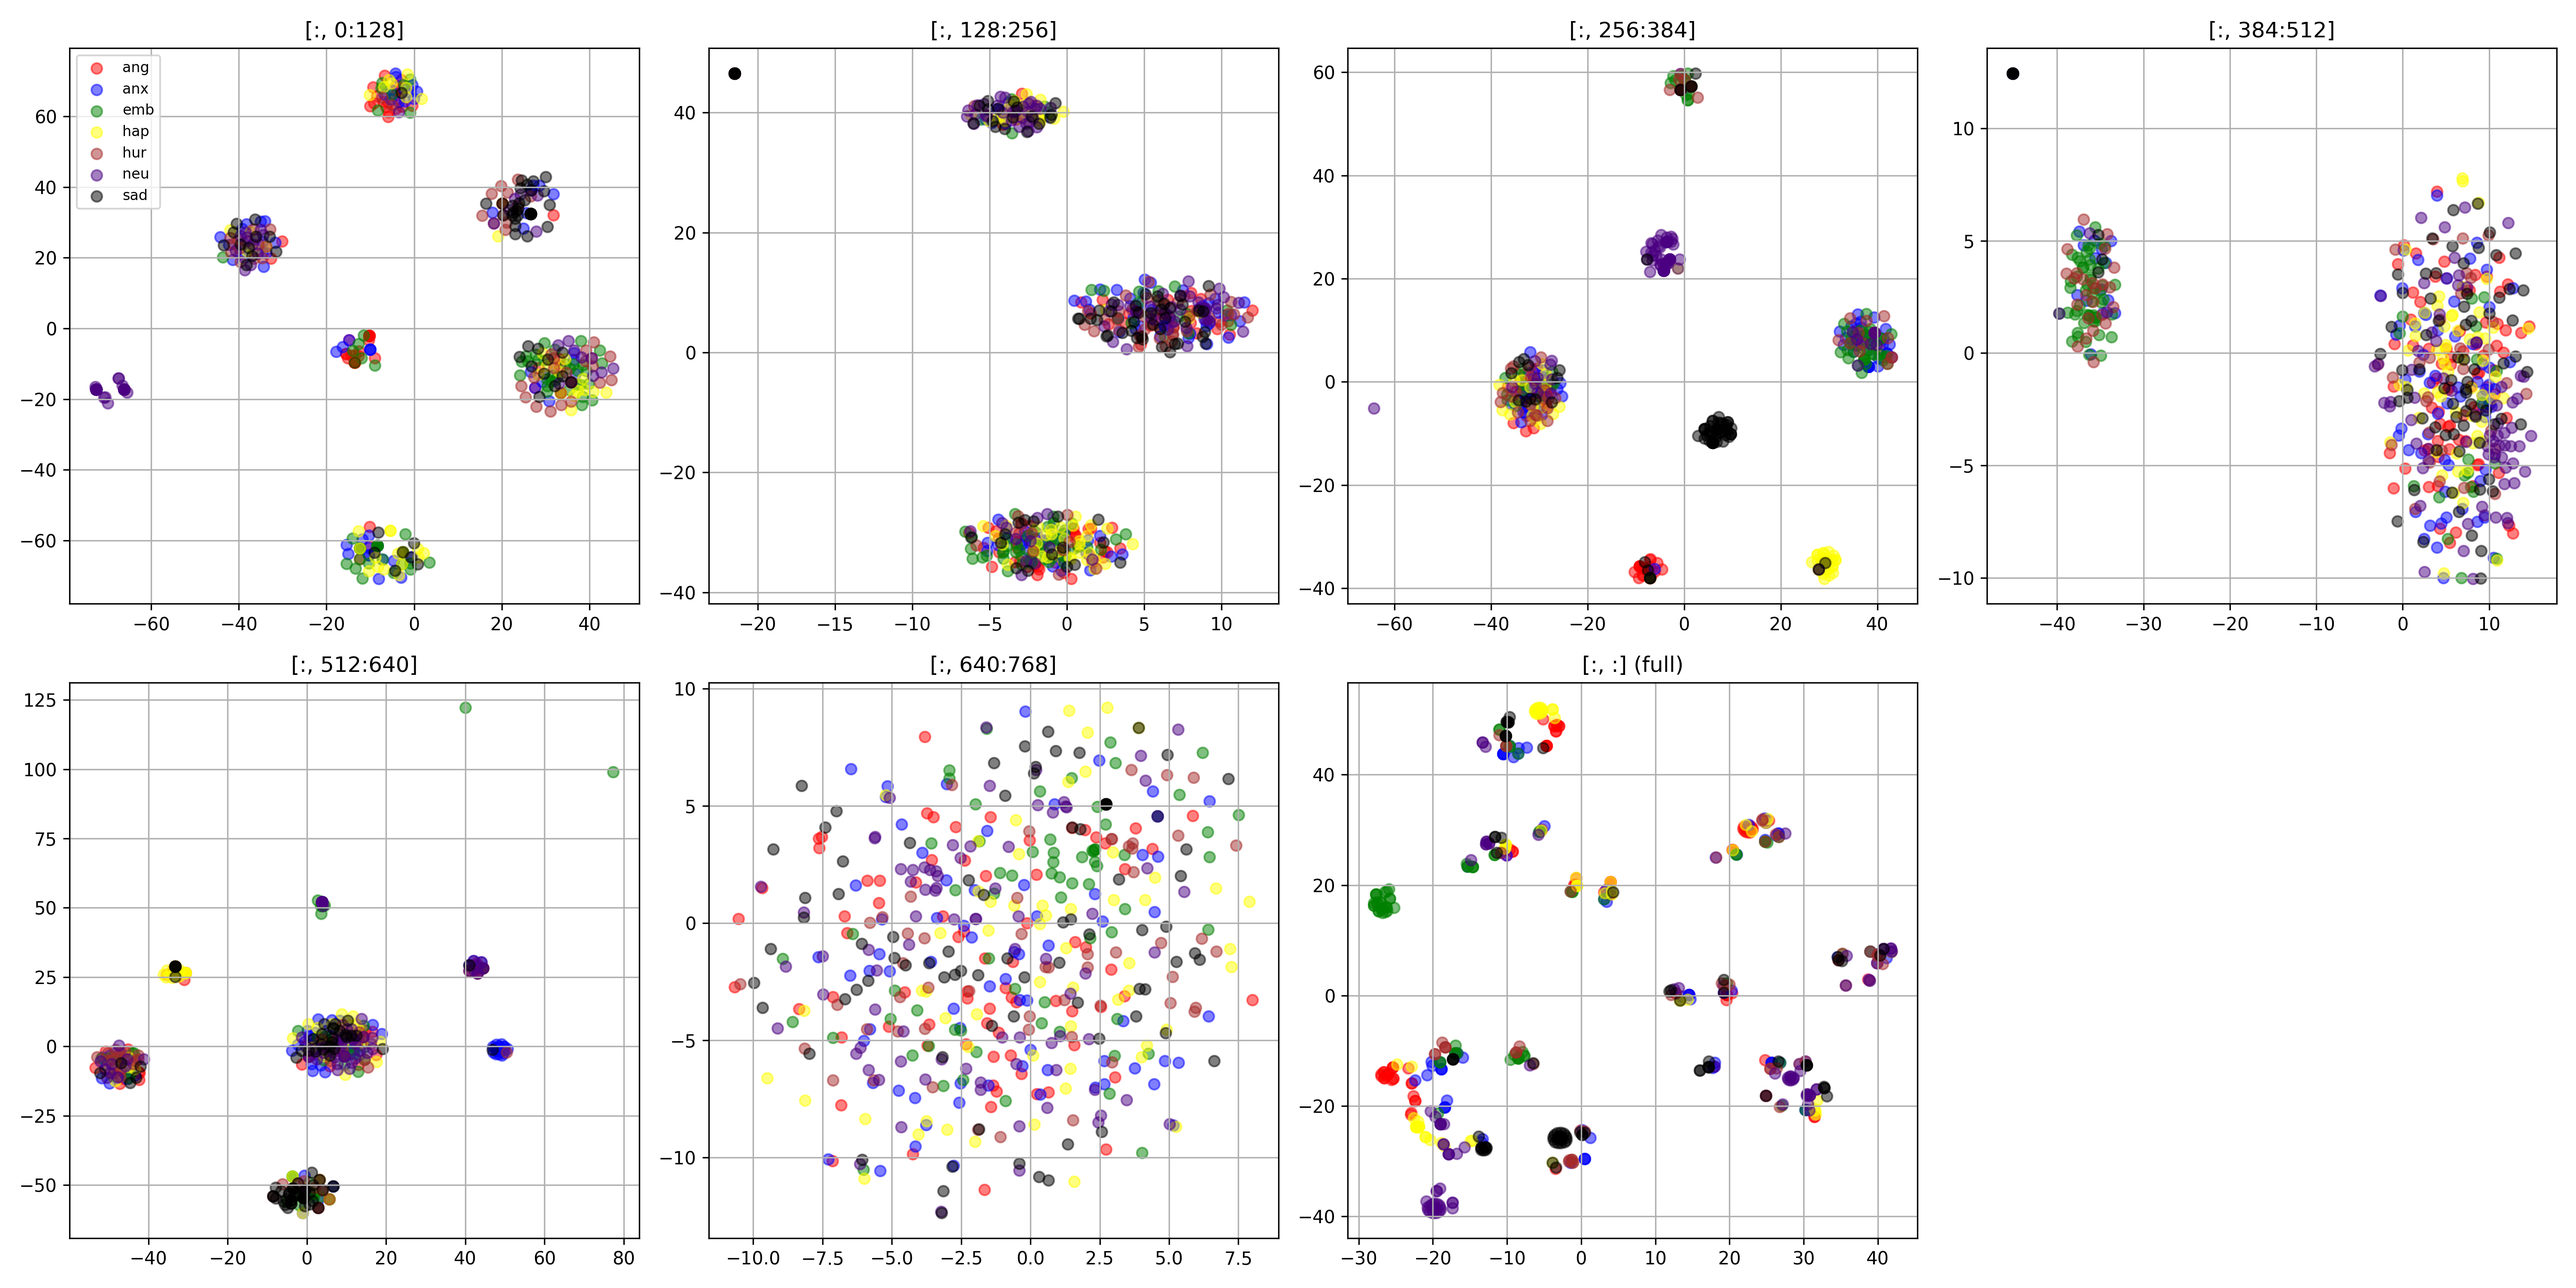
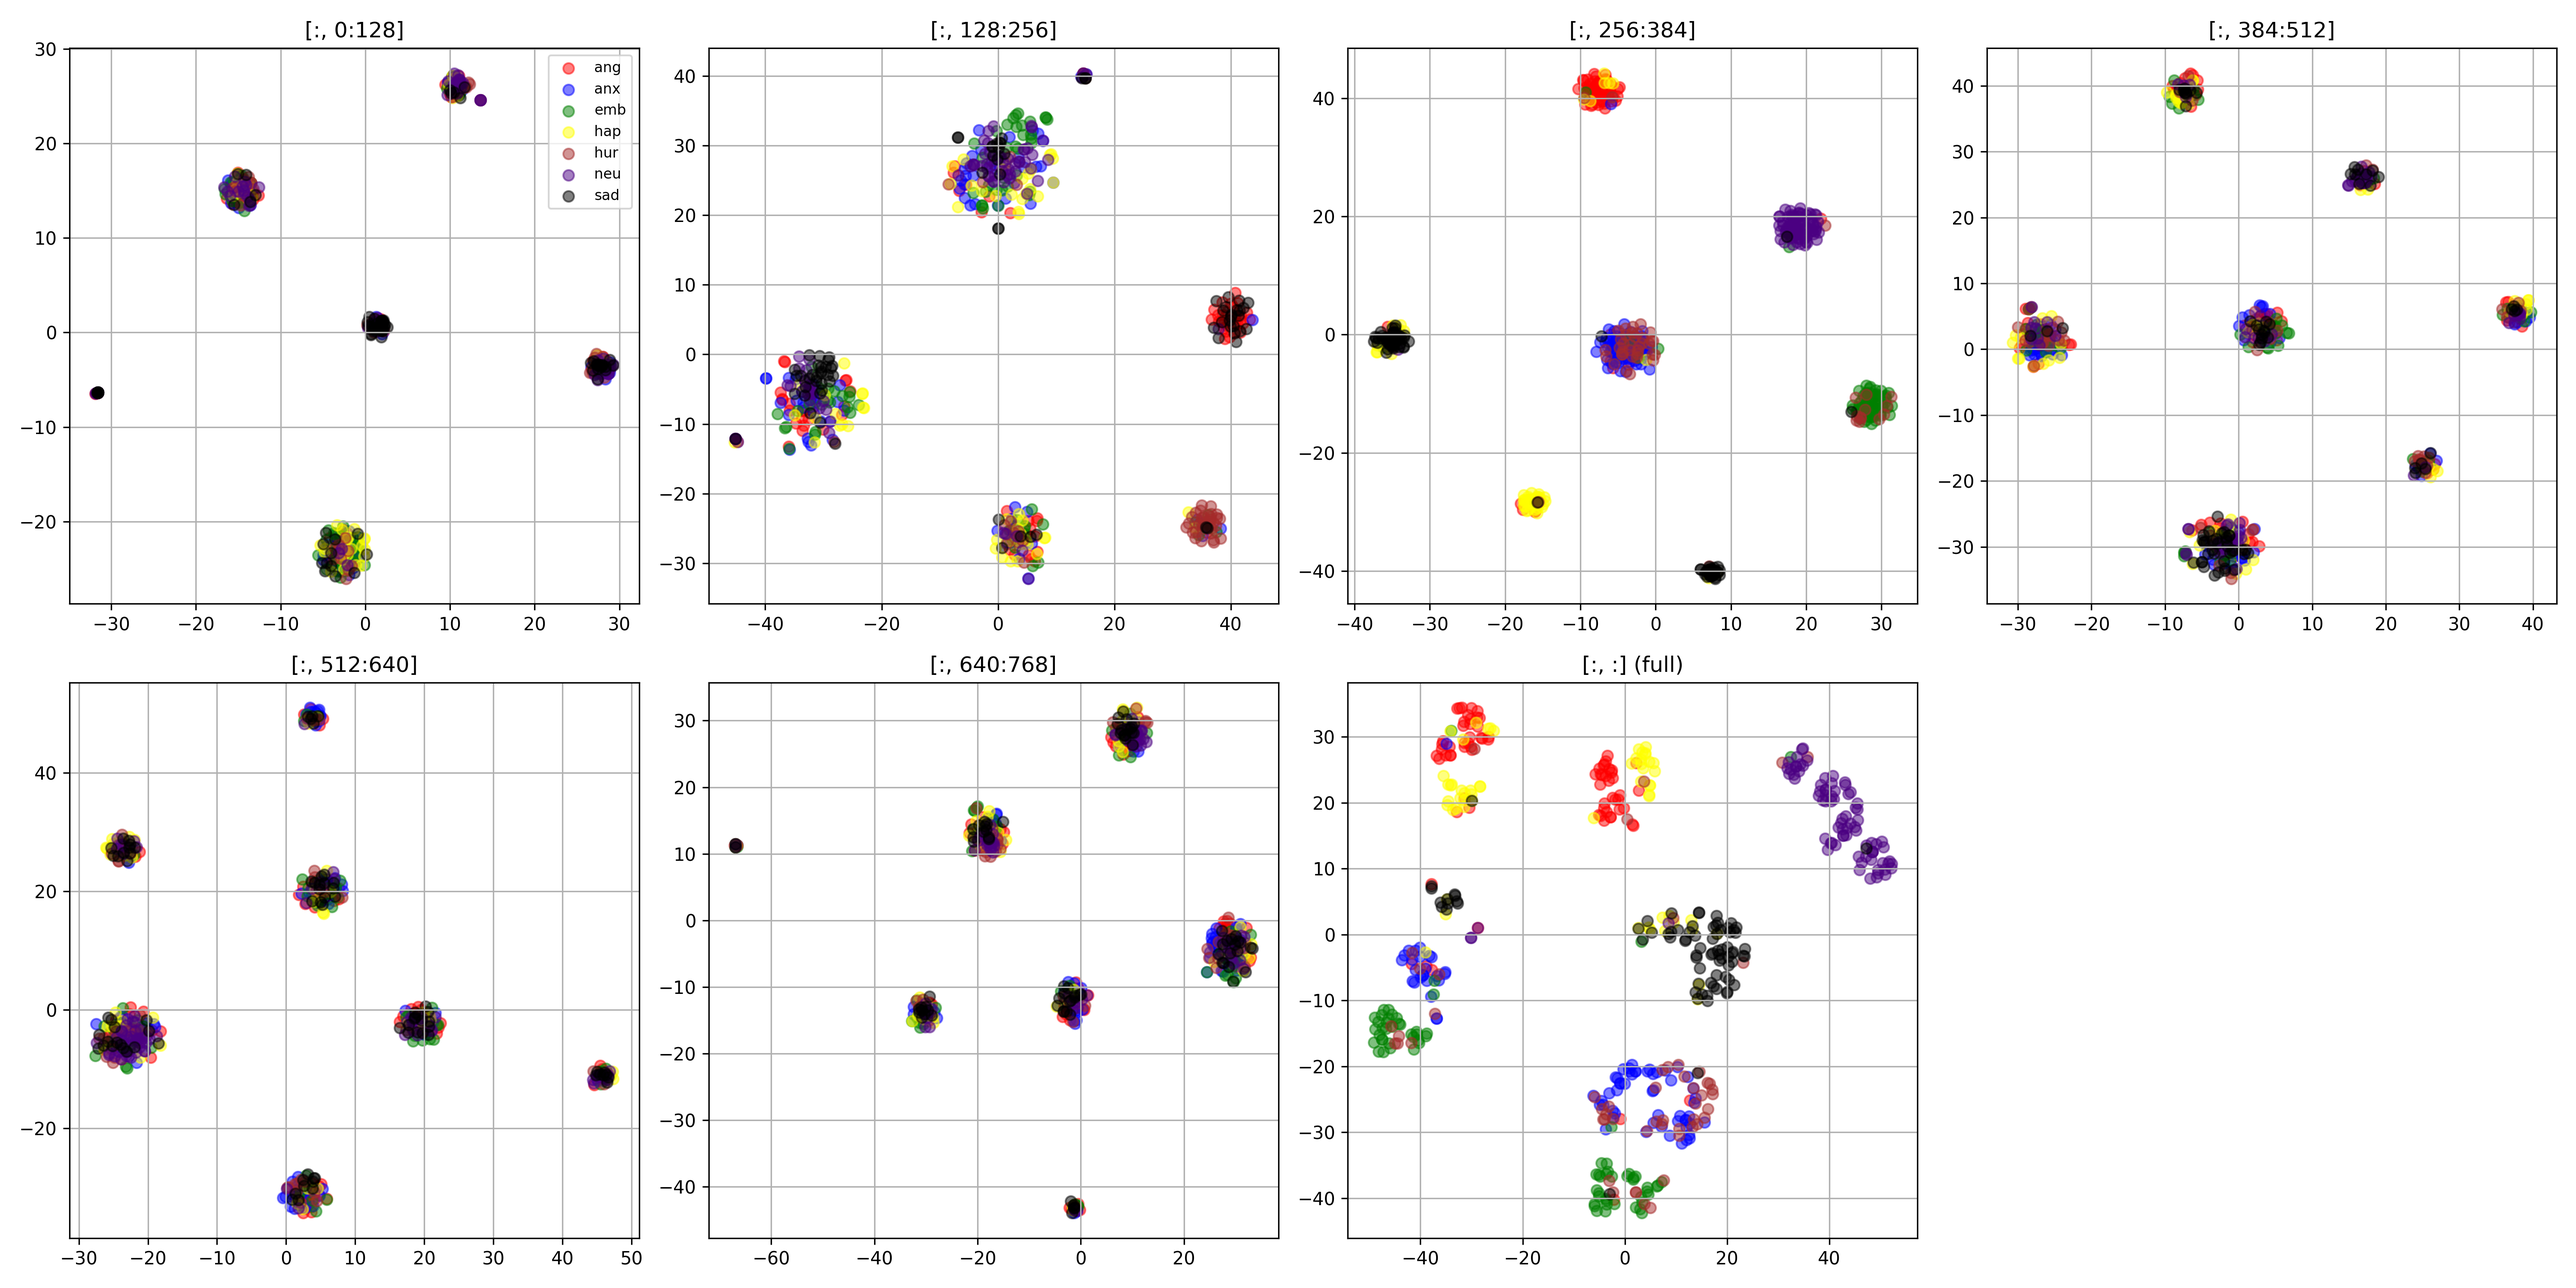
use all indices for group consistency loss

diff --git a/model/loss.py b/model/loss.py
@@ -2,6 +2,50 @@ import torch
 import torch.nn as nn
 import torch.nn.functional as F
 
+import numpy as np
+
+def group_consistency_loss(y_true, y_pred):
+    """
+    y_true: 정답 레이블 시퀀스 (길이 N) - Tensor 또는 numpy array
+    y_pred: 예측 레이블 시퀀스 (길이 N) - Tensor 또는 numpy array
+    
+    return: float (각 라벨 그룹별 일관성 로스의 합)
+    """
+    # 혹시 y_true, y_pred가 torch.Tensor로 GPU에 올라가 있다면
+    # detach + cpu로 옮겨서 numpy로 변환해준다.
+    if isinstance(y_true, torch.Tensor):
+        y_true = y_true.detach().cpu().numpy()
+    if isinstance(y_pred, torch.Tensor):
+        y_pred = y_pred.detach().cpu().numpy()
+    
+    assert len(y_true) == len(y_pred), "두 시퀀스 길이가 다릅니다."
+    N = len(y_true)
+    if N == 0:
+        return 0.0
+
+    total_loss = 0.0
+    
+    # 타겟에 존재하는 유니크 라벨들을 찾는다.
+    unique_labels = np.unique(y_true)
+    
+    # 라벨별로 해당하는 인덱스를 모은 뒤, 그 인덱스의 예측들이 얼마나 "한 가지 라벨"로 일관적인지 계산
+    for label in unique_labels:
+        # 해당 라벨을 가지는 위치
+        indices = np.where(y_true == label)[0]
+        # 그 위치들의 예측값 모음
+        seg_pred = y_pred[indices]
+        
+        # seg_pred 내에서 가장 많이 나온 라벨의 빈도수
+        counts = np.bincount(seg_pred)
+        max_count = np.max(counts)  # 가장 빈도가 높은 예측 라벨의 횟수
+        q_k = max_count / len(seg_pred)  # 해당 라벨 그룹 내에서 "최다 라벨"이 차지하는 비율
+        
+        # 일관성이 높을수록 q_k는 1에 가까워지고, loss는 0에 가까워짐
+        loss_k = 1.0 - q_k
+        total_loss += loss_k
+    
+    return total_loss
+
 
 class FastSpeech2Loss(nn.Module):
     """ FastSpeech2 Loss """
@@ -94,17 +138,19 @@ class FastSpeech2Loss(nn.Module):
         for min_encoding_indice in min_encoding_indices:
             emotions_pred = min_encoding_indice
             # Clssifier
-            emotions_pred = F.one_hot(emotions_pred, num_classes=7).float().squeeze()
+            # emotions_pred = F.one_hot(emotions_pred, num_classes=7).float().squeeze()
 
             # emotions_pred = min_encoding_indices.float().squeeze()
-            emotions = inputs[3].long()
+            emotions = inputs[3]
+
+            
 
             # print("emotions", emotions)
 
             # print("emotions_pred ", emotions_pred)
             # print("emotions ", emotions)
 
-            classifier_loss += self.criterion(emotions_pred, emotions) * 0.1
+            classifier_loss += group_consistency_loss(emotions_pred, emotions) * 0.1
 
             # print("-----------------------")
 

diff --git a/model/residual_vq_gaeun.py b/model/residual_vq_gaeun.py
@@ -730,7 +730,7 @@ class ResidualVQ2_kmeans(torch.nn.Module):
         # 모든 단계의 quantized 코드를 concatenate
         final_quantized = torch.cat(quantized_codes, dim=1)
 
-        return final_quantized, total_vq_loss, indices_list[0], perplexities
+        return final_quantized, total_vq_loss, indices_list, perplexities
 
 class ReferenceEncoderSRVQ3(torch.nn.Module):
     def __init__(self, e_dim
@@ -744,6 +744,7 @@ class ReferenceEncoderSRVQ3(torch.nn.Module):
         print("reference_encoder m,p,e initialized")
 
         self.emotion_classifier = EmotionClassifier(e_dim//2, 7)
+        self.cls_loss = 0
 
     def forward(self, speech, emotions, p_mel, e_mel):
         # Step 1: Extract pitch information and neutralize it
@@ -765,9 +766,9 @@ class ReferenceEncoderSRVQ3(torch.nn.Module):
         emotion_preds_e = self.emotion_classifier(z_energy)
         cls_loss_e = torch.nn.functional.cross_entropy(emotion_preds_e, emotions)
 
-        cls_loss = (cls_loss_m + cls_loss_p + cls_loss_e) / 3
+        self.cls_loss = (cls_loss_m + cls_loss_p + cls_loss_e) / 2
 
-        return z_mel, z_pitch, z_energy, cls_loss
+        return z_mel, z_pitch, z_energy, self.cls_loss
 
 class SRVQ3WithNeutralization(torch.nn.Module):
     def __init__(
@@ -809,7 +810,7 @@ class SRVQ3WithNeutralization(torch.nn.Module):
         commit_loss = commit_loss_m + commit_loss_p + commit_loss_e
 
         # Combine indices for reference
-        indices = [indices_m, indices_p, indices_e]
+        indices = [indices_m[0], indices_m[1], indices_p[0], indices_p[1], indices_e[0], indices_e[1]]
 
         # print("commit_loss", commit_loss, "cls_loss", cls_loss)
 

diff --git a/train.py b/train.py
@@ -237,7 +237,7 @@ def train(rank, args, configs, batch_size, num_gpus):
                 inner_bar.update(1)
         epoch += 1
 
-        val_path =  '/root/mydir/ICASSP2024_FS2-develop/ICASSP2024_FS2-develop/preprocessed_data/emo_kr_22050/val.txt'
+        val_path =  '/root/mydir/ICASSP2024_FS2-develop/ICASSP2024_FS2-develop/preprocessed_data/emo_kr_22050/train.txt'
 
         with open(val_path, encoding='utf-8') as f:
             val_infos = [line.strip().split("|") for line in f]
@@ -253,7 +253,9 @@ def train(rank, args, configs, batch_size, num_gpus):
         z_pitchs = []
         z_energies = []
 
-        for val_info in val_infos:
+        for i in range(len(val_infos)):
+            if i % 25 != 0: continue
+            val_info = val_infos[i]
             val_basenames.append(val_info[0])
             emotions.append(emotion_map[val_info[2]])
         
